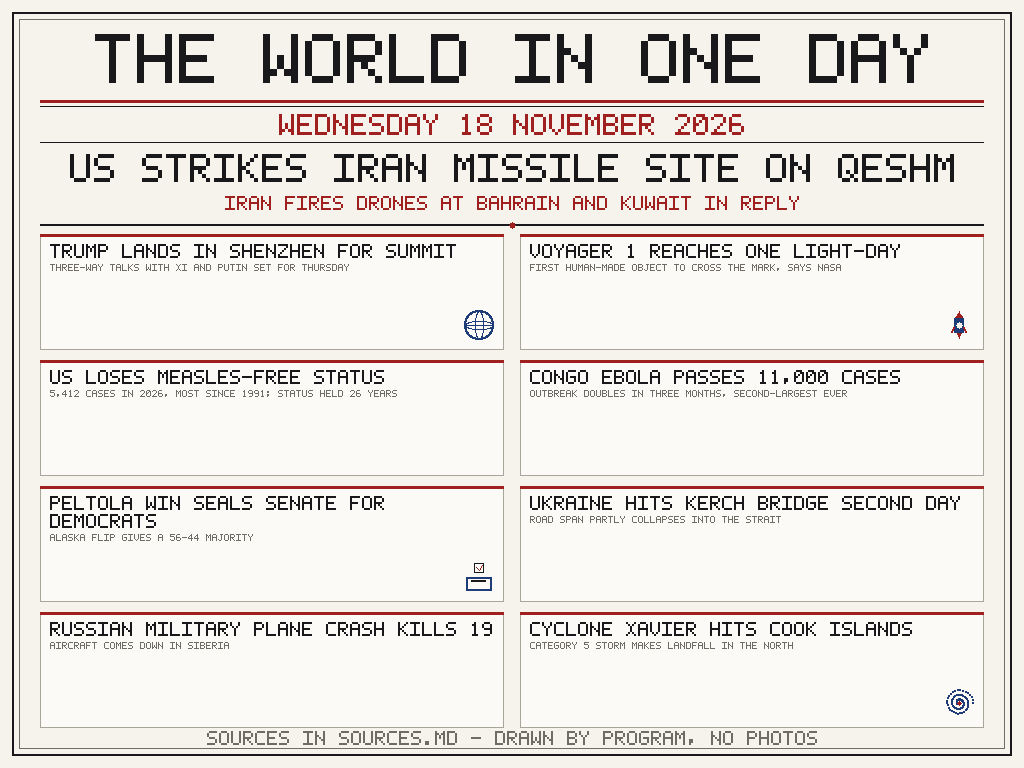
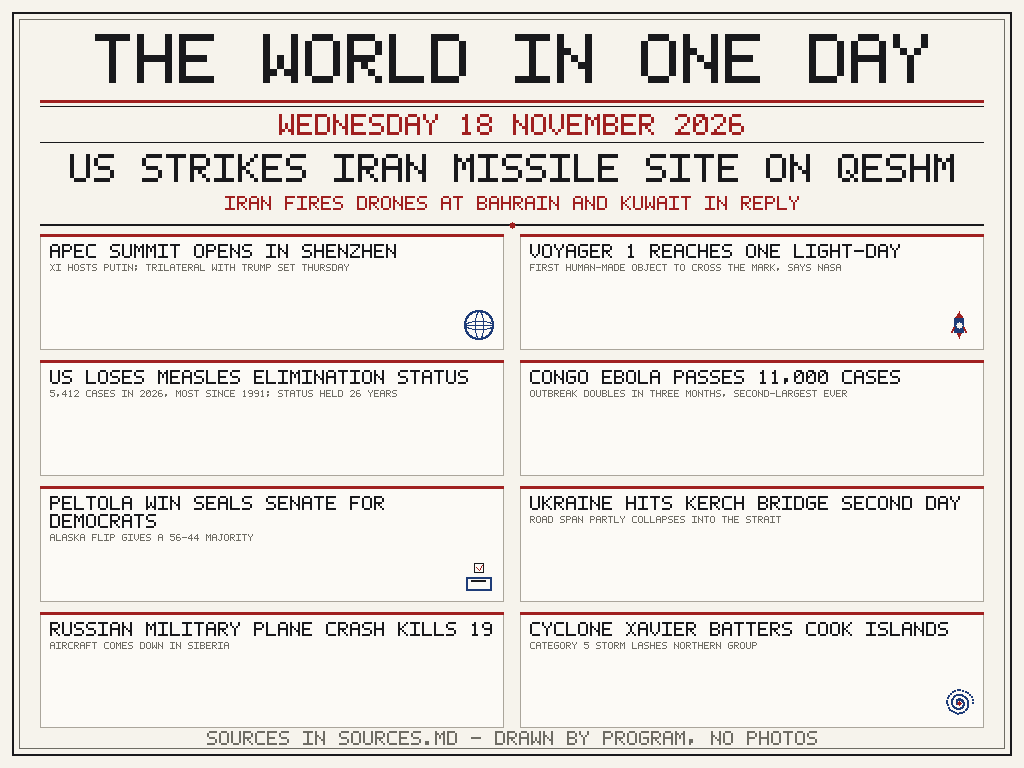
Fix wording and sourcing for 18 Nov front page
- Shenzhen panel neutralized: 'APEC SUMMIT OPENS IN SHENZHEN' /
  'XI HOSTS PUTIN; TRILATERAL WITH TRUMP SET THURSDAY' (no Trump
  landing claim; reports conflicted on arrival timing)
- Measles panel: 'US LOSES MEASLES ELIMINATION STATUS' (CDC wording,
  not 'measles-free status')
- Cyclone panel: 'CYCLONE XAVIER BATTERS COOK ISLANDS' — no landfall
  claim (forecast centre stayed offshore)
- SOURCES.md: complete headline-to-source map with primary/wire
  URLs and dates (Reuters, AP, CDC, NASA Science, ECDC, NZ
  MetService, Le Monde); remaining aggregators labelled as such
- entry.png regenerated by the program; tests 4/4; two runs
  byte-identical (sha256 e97b57e2...)

Changed region(s): [[0.0312, 0.3125, 0.4375, 0.375], [0.6875, 0.8125, 0.9062, 0.8438], [0.25, 0.4688, 0.4688, 0.5]]

diff --git a/main.py b/main.py
@@ -282,11 +282,11 @@ LEAD_HEAD = "US STRIKES IRAN MISSILE SITE ON QESHM"
 LEAD_SUB = "IRAN FIRES DRONES AT BAHRAIN AND KUWAIT IN REPLY"
 
 PANELS = [
-    ("a", "TRUMP LANDS IN SHENZHEN FOR SUMMIT",
-     "THREE-WAY TALKS WITH XI AND PUTIN SET FOR THURSDAY"),
+    ("a", "APEC SUMMIT OPENS IN SHENZHEN",
+     "XI HOSTS PUTIN; TRILATERAL WITH TRUMP SET THURSDAY"),
     ("b", "VOYAGER 1 REACHES ONE LIGHT-DAY",
      "FIRST HUMAN-MADE OBJECT TO CROSS THE MARK, SAYS NASA"),
-    ("c", "US LOSES MEASLES-FREE STATUS",
+    ("c", "US LOSES MEASLES ELIMINATION STATUS",
      "5,412 CASES IN 2026, MOST SINCE 1991; STATUS HELD 26 YEARS"),
     ("d", "CONGO EBOLA PASSES 11,000 CASES",
      "OUTBREAK DOUBLES IN THREE MONTHS, SECOND-LARGEST EVER"),
@@ -296,8 +296,8 @@ PANELS = [
      "ROAD SPAN PARTLY COLLAPSES INTO THE STRAIT"),
     ("g", "RUSSIAN MILITARY PLANE CRASH KILLS 19",
      "AIRCRAFT COMES DOWN IN SIBERIA"),
-    ("h", "CYCLONE XAVIER HITS COOK ISLANDS",
-     "CATEGORY 5 STORM MAKES LANDFALL IN THE NORTH"),
+    ("h", "CYCLONE XAVIER BATTERS COOK ISLANDS",
+     "CATEGORY 5 STORM LASHES NORTHERN GROUP"),
 ]
 
 FOOTER = "SOURCES IN SOURCES.MD - DRAWN BY PROGRAM, NO PHOTOS"

diff --git a/SOURCES.md b/SOURCES.md
@@ -1,35 +1,119 @@
 # Sources — news of Wednesday 18 November 2026
 
-Every headline and sub-line drawn on the front page in `entry.png` comes
-from world news as reported during Wednesday 18 November 2026. The
-stories were researched from these daily news roundups of that day:
+Every headline and sub-line drawn on the front page in `entry.png` is
+mapped below to the reporting it rests on. Where a primary or wire
+source exists it is cited directly (wire stories are cited at a
+verbatim carrier page, since the wires' own sites are paywalled);
+daily roundups/aggregators are used only where no wire copy could be
+found and are labelled as aggregators.
+
+## Story map
+
+- Lead — "US STRIKES IRAN MISSILE SITE ON QESHM" / "IRAN FIRES DRONES
+  AT BAHRAIN AND KUWAIT IN REPLY":
+  - Reuters (wire), "US strikes Iranian missile launch site on Qeshm
+    Island, US official says", 17 Nov 2026 — US fighter aircraft hit
+    an IRGC missile launch site on Qeshm in retaliation for Iran
+    targeting US personnel and assets, including the drone attack on
+    the US radar system at Sheikh Isa Air Base, Bahrain:
+    https://mymixfm.com/2026/11/17/us-strikes-iranian-missile-launch-site-on-qeshm-island-us-official-says/
+  - The News Bit (aggregator, citing Reuters), "Iran Expands Gulf
+    Attacks After US Strikes", 18 Nov 2026 — Iran's military said it
+    targeted US drone and missile installations at Kuwait's Ali Al
+    Salem air base, per Reuters:
+    https://thenewsbit.com/iran-expands-gulf-attacks-us-strikes/
+
+- "APEC SUMMIT OPENS IN SHENZHEN" / "XI HOSTS PUTIN; TRILATERAL WITH
+  TRUMP SET THURSDAY":
+  - Le Monde (newspaper), "With Trump and Putin at his side, Xi puts
+    himself front and center on world stage", 18 Nov 2026 — Xi hosts
+    the APEC summit in Shenzhen on Wednesday and Thursday; the
+    Xi–Trump–Putin meeting is scheduled for Thursday on the summit's
+    sidelines. Wording is deliberately neutral on Trump's arrival:
+    reports conflicted on its timing, so the panel claims no landing:
+    https://www.lemonde.fr/en/international/article/2026/11/18/with-trump-and-putin-at-his-side-xi-puts-himself-front-and-center-on-world-stage_6782965_4.html
+  - World of Now (aggregator/explainer, citing Reuters, 18 Nov 2026)
+    — Reuters reported the three leaders expected to meet on Thursday:
+    https://worldofnow.com/geopolitics/xi-putin-trump-shenzhen-trilateral-apec-summit-november-2026/
+
+- "VOYAGER 1 REACHES ONE LIGHT-DAY" / "FIRST HUMAN-MADE OBJECT TO
+  CROSS THE MARK, SAYS NASA":
+  - NASA Science (primary), "Voyager 1: What Is a Light-Day",
+    updated 18 Nov 2026 — Voyager 1 reaches one light-day from Earth
+    on Wednesday 18 Nov 2026 at 5:16:07 a.m. EST, the first human-made
+    object to reach that distance:
+    https://science.nasa.gov/mission/voyager/voyager-1/voyager-1-what-is-a-light-day/
+
+- "US LOSES MEASLES ELIMINATION STATUS" / "5,412 CASES IN 2026, MOST
+  SINCE 1991; STATUS HELD 26 YEARS":
+  - CDC (primary), "Joint Statement: Loss of U.S. Measles Elimination
+    Status", CDC Newsroom, 17 Nov 2026 — the US loses the elimination
+    designation it held for 26 years (since 2000):
+    https://www.cdc.gov/media/releases/2026/loss-of-usmeasles-elimination-status.html
+  - The 5,412 figure is CDC's confirmed 2026 case count as of
+    12 Nov 2026, the highest annual total since 1991, as reported
+    from CDC data (e.g. Healthline, 17 Nov 2026):
+    https://www.healthline.com/health-news/u-s-loses-measles-elimination-status-after-26-years
+
+- "CONGO EBOLA PASSES 11,000 CASES" / "OUTBREAK DOUBLES IN THREE
+  MONTHS, SECOND-LARGEST EVER":
+  - ECDC (primary/official), "Ebola disease outbreak caused by
+    Bundibugyo virus – Multi-country – 2026", update of 12 Nov 2026 —
+    11,114 confirmed cases in DR Congo (data to 11 Nov 2026):
+    https://www.ecdc.europa.eu/en/public-health-events/2026-eip-00026/2026-11-12
+  - Associated Press (wire), 11 Nov 2026 — the outbreak is the
+    second-largest Ebola outbreak on record; AP report carried by
+    HeadlinesXtra (aggregator):
+    https://headlinesxtra.com/2026/11/11/congo-ebola-outbreak-11000-infections-response-obstacles-november-2026/
+
+- "PELTOLA WIN SEALS SENATE FOR DEMOCRATS" / "ALASKA FLIP GIVES A
+  56-44 MAJORITY":
+  - Associated Press (wire), "Democrat Mary Peltola wins US Senate
+    race in Alaska, beating incumbent Republican Dan Sullivan",
+    18 Nov 2026 (race called Tuesday 17 Nov) — Peltola's win gives
+    Democrats a 56-44 Senate majority; AP story carried verbatim at:
+    http://vm-www2.azurewebsites.net/world-news/democrat-mary-peltola-wins-us-senate-race-in-alaska-beating-incumbent-republican-dan-sullivan-13030106
+
+- "UKRAINE HITS KERCH BRIDGE SECOND DAY" / "ROAD SPAN PARTLY
+  COLLAPSES INTO THE STRAIT":
+  - Reuters (wire), "Ukraine damages Crimean bridge in major strike
+    as Russia pounds Kyiv bridges", by Lina Golovnya and Andrew
+    Osborn, 17 Nov 2026 — Ukraine struck the bridge for a second
+    straight day; the main road arch appeared collapsed into the
+    Kerch Strait; Reuters story carried verbatim at:
+    https://935thelloyd.com/2026/11/17/ukraine-strikes-crimean-bridge-for-second-day-as-russia-pounds-kyiv-bridges/
+
+- "RUSSIAN MILITARY PLANE CRASH KILLS 19" / "AIRCRAFT COMES DOWN IN
+  SIBERIA":
+  - Reuters (wire), "Russian military transport aircraft crashes in
+    Siberia, 19 dead, defence ministry says", 17 Nov 2026 — an An-12
+    crashed in the Kemerovo region of southwestern Siberia; the
+    panel uses the Defence Ministry toll of 19 (an earliest report
+    via Izvestia said 17); Reuters story carried verbatim at:
+    https://mymixfm.com/2026/11/17/russian-military-transport-aircraft-crashes-in-siberia-17-dead-izvestia-reports/
+
+- "CYCLONE XAVIER BATTERS COOK ISLANDS" / "CATEGORY 5 STORM LASHES
+  NORTHERN GROUP":
+  - NZ MetService (official meteorological bulletin), "Tropical
+    Cyclone Activity", issued Wed 18 Nov 2026 — Severe Tropical
+    Cyclone Xavier, Category 5 (910 hPa), about 280 km northeast of
+    Pukapuka in the Northern Cook Islands, moving slowly:
+    https://www.metservice.com/warnings/tropical-cyclone-activity
+  - RNZ (wire-grade reporting, via NZ Herald), "Category 5 Cyclone
+    Xavier batters Northern Cook Islands", 17 Nov 2026 — gale and
+    strong-wind warnings across the Northern Group:
+    https://nzme-poc-nzh-dev-pb01.non-prod.cdn.zephr.com/talanoa/category-5-cyclone-xavier-batters-northern-cook-islands-with-gusts-up-to-295kmh/YAJ2YCTNZ5FPLBIWUMSCF27UWU/
+  - Wording note: forecasts indicated the cyclone's centre would NOT
+    make landfall on the islands, so the panel says "batters" and
+    claims no landfall.
+
+## Roundups consulted during research (aggregators, not cited above)
 
 - Horizon — news of 18 November 2026: https://www.horizonapp.link/en/2026/11/18
 - OneTurn News — news index: https://oneturn.news/news/
 - Zark News — daily briefing, November 18, 2026: https://zarknews.com/zark-news-daily-briefing-november-18-2026/
 - Nexus Europa — top news, 2026-11-18: https://nexuseuropa.eu/en/top-news/2026-11-18-0200
 - Leo Szeto's Digest — index: https://digest.leoszeto.com/index.html
-
-## Story map
-
-- Lead — "US STRIKES IRAN MISSILE SITE ON QESHM" / "IRAN FIRES DRONES AT
-  BAHRAIN AND KUWAIT IN REPLY": reported across the 18 Nov roundups.
-- "TRUMP LANDS IN SHENZHEN FOR SUMMIT" / "THREE-WAY TALKS WITH XI AND
-  PUTIN SET FOR THURSDAY": reported across the 18 Nov roundups.
-- "VOYAGER 1 REACHES ONE LIGHT-DAY" / "FIRST HUMAN-MADE OBJECT TO CROSS
-  THE MARK, SAYS NASA": reported across the 18 Nov roundups.
-- "US LOSES MEASLES-FREE STATUS" / "5,412 CASES IN 2026, MOST SINCE
-  1991; STATUS HELD 26 YEARS": reported across the 18 Nov roundups.
-- "CONGO EBOLA PASSES 11,000 CASES" / "OUTBREAK DOUBLES IN THREE
-  MONTHS, SECOND-LARGEST EVER": reported across the 18 Nov roundups.
-- "PELTOLA WIN SEALS SENATE FOR DEMOCRATS" / "ALASKA FLIP GIVES A 56-44
-  MAJORITY": reported across the 18 Nov roundups.
-- "UKRAINE HITS KERCH BRIDGE SECOND DAY" / "ROAD SPAN PARTLY COLLAPSES
-  INTO THE STRAIT": reported across the 18 Nov roundups.
-- "CYCLONE XAVIER HITS COOK ISLANDS" / "CATEGORY 5 STORM MAKES
-  LANDFALL IN THE NORTH": reported across the 18 Nov roundups.
-- "RUSSIAN MILITARY PLANE CRASH KILLS 19" / "AIRCRAFT COMES DOWN IN
-  SIBERIA": reported across the 18 Nov roundups.
 
 ## Refresh note
 
